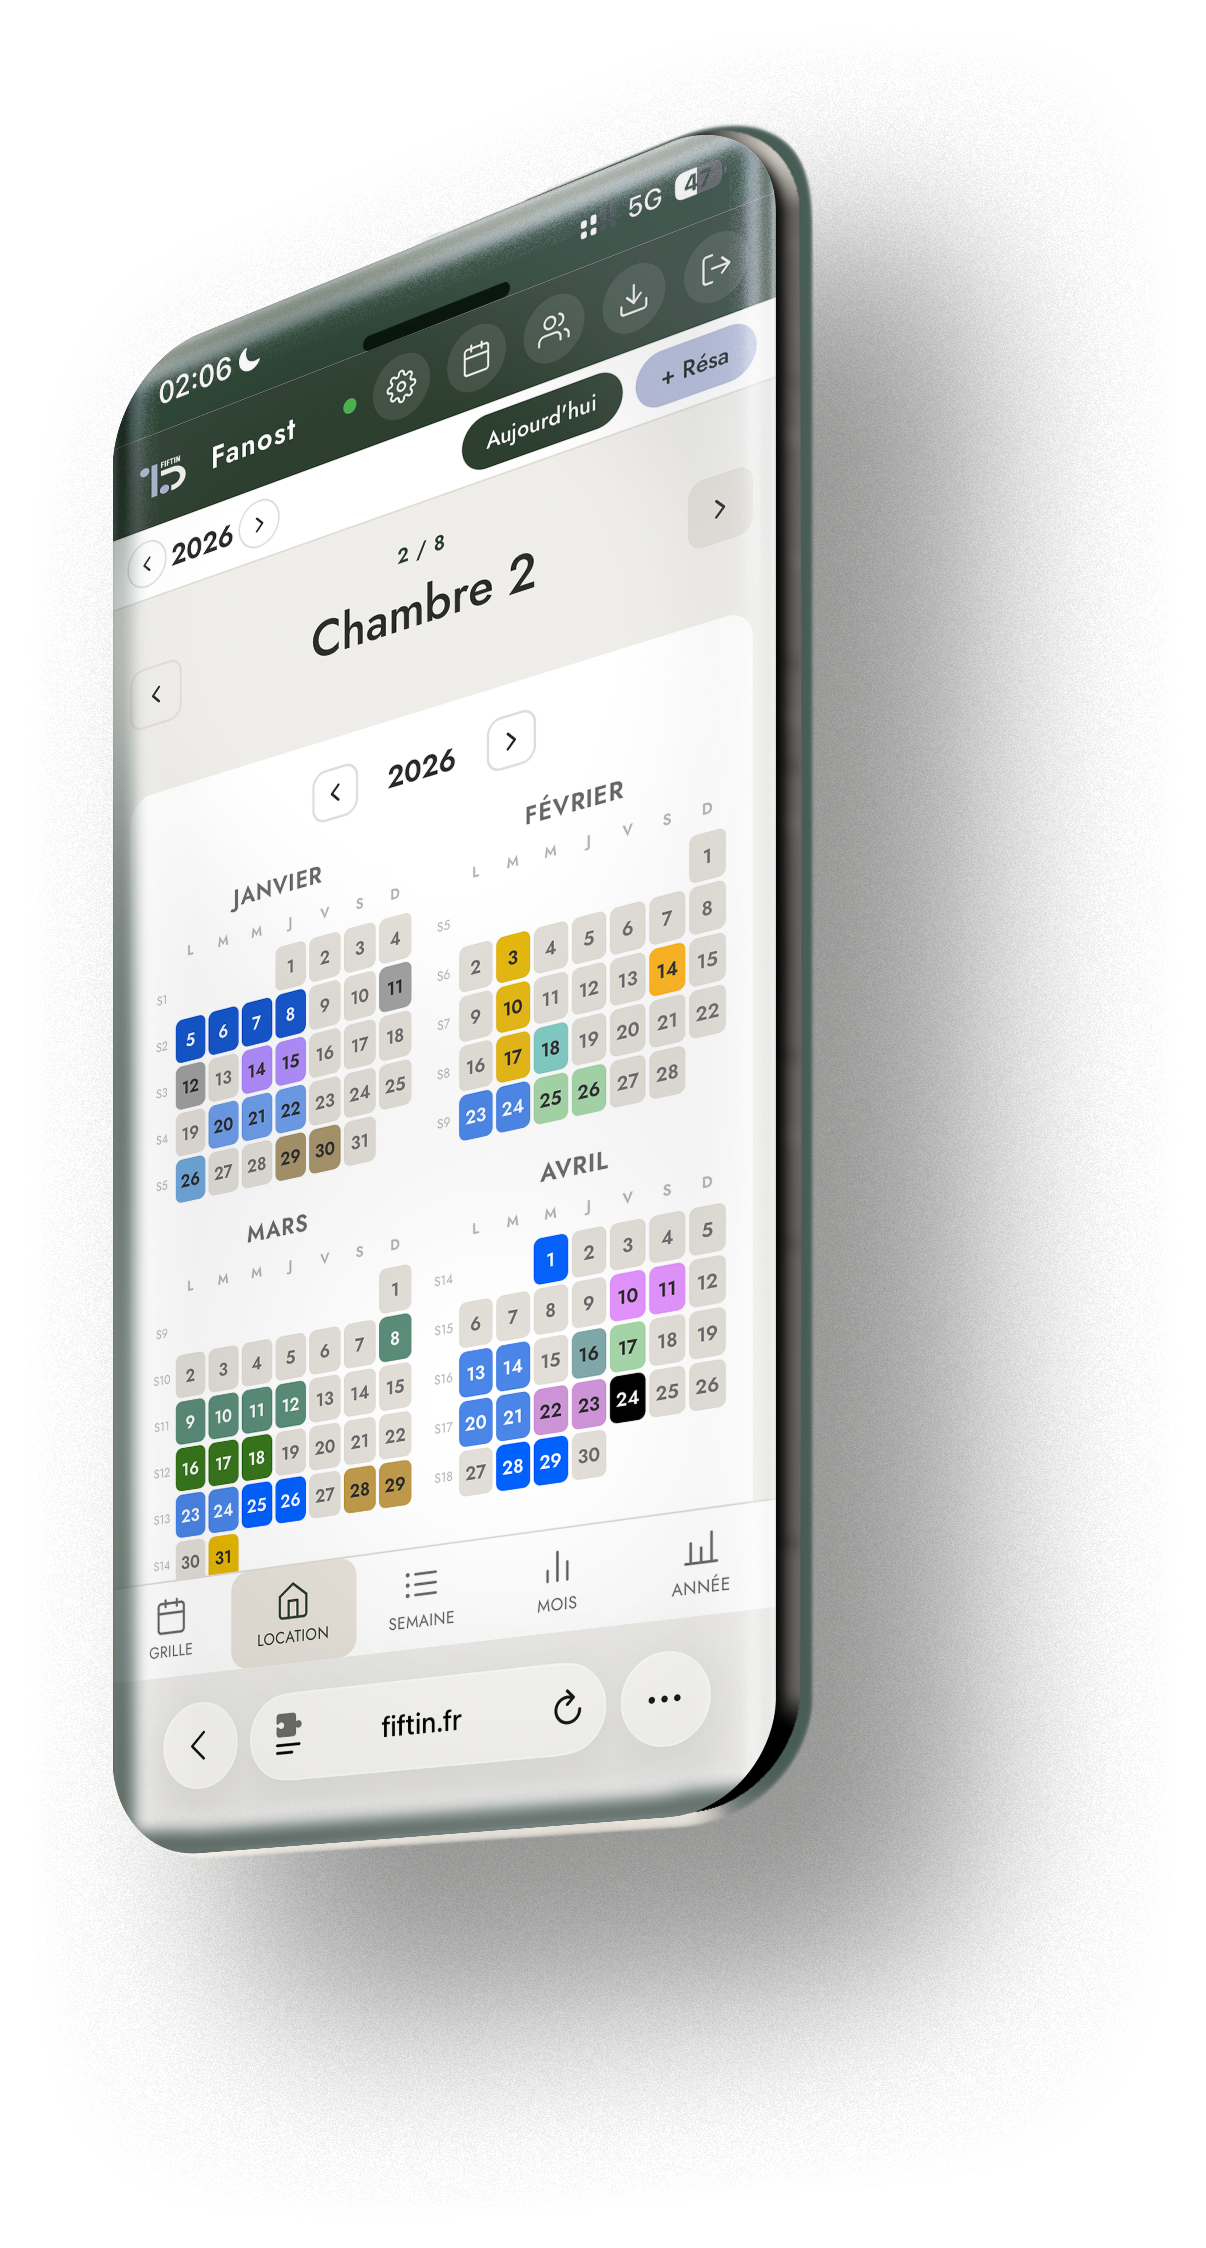
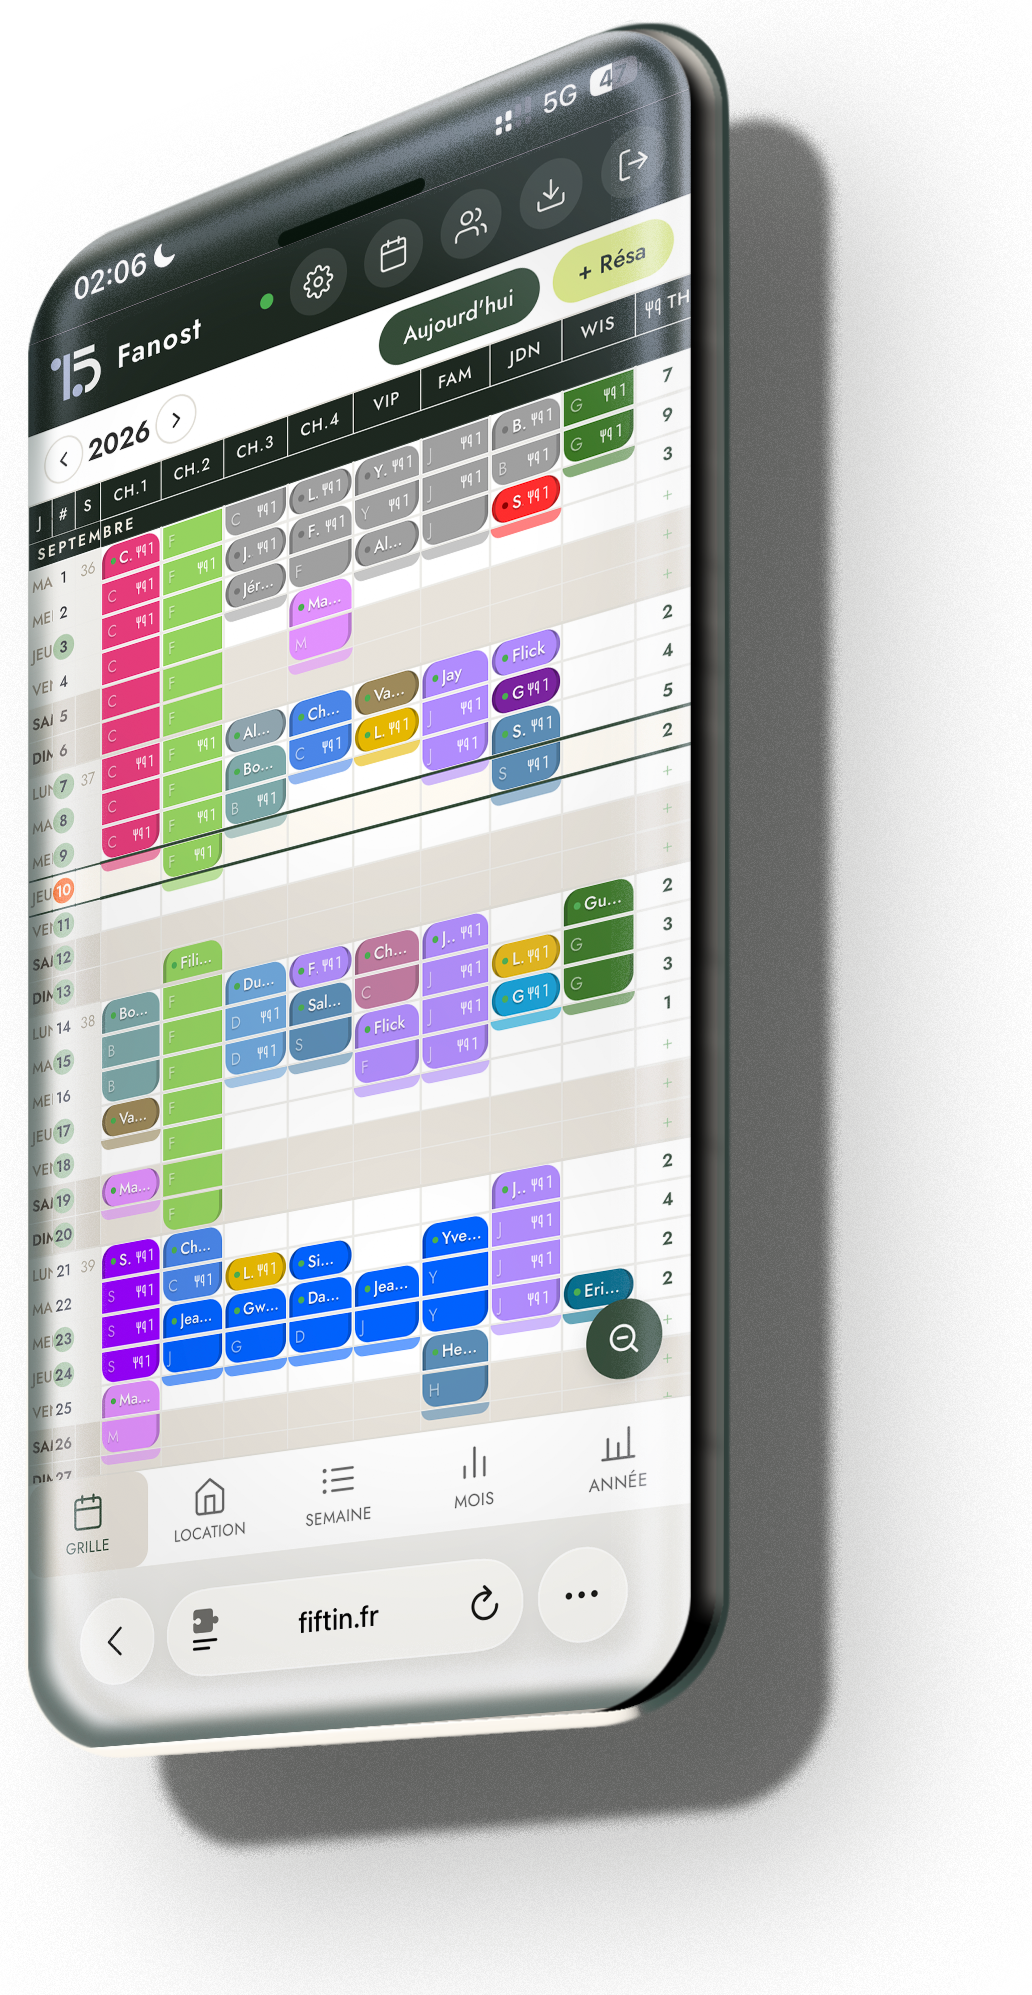
Hero : nouveau visuel téléphone (mockup_SCREEN2), recalibré et réduit
Remplace assets/ecran_hero.png par la nouvelle capture envoyée
(mockup_SCREEN2.png, recadrée aux mêmes bornes de contenu que la
précédente — marge transparente inutile retirée à gauche/en haut,
fichier d'upload brut supprimé une fois recadré).

Nouvelles proportions d'image (1032×1995, ratio différent de l'ancienne) :
recalibré la largeur d'affichage desktop (2000px -> 1500px, "un peu gros"
comme demandé), la marge négative qui détermine où la coupure de bas de
section tombe (-702px -> -290px, toujours ~10% de la hauteur rendue,
même principe qu'avant), et le recentrage optique horizontal
(translateX 11% -> 8%, le poids visuel de cette image penche un peu moins
à gauche que la précédente). Équivalent mobile recalculé au même ratio
(-35.1vw -> -19.3vw).

Vérifié en local : téléphone nettement plus petit sur desktop, coupure
propre à la frontière de section, rien de tronqué sur les côtés, aux deux
gabarits.

diff --git a/index.html b/index.html
@@ -54,18 +54,18 @@
   /* le téléphone bleed hors de la section couverture — la coupure franche
      se fait à la frontière même entre la couverture et la section suivante
      (voir .cover{overflow:hidden; padding-bottom:0}), pas par un fondu. */
-  .hero-phone-wrap{margin:0 auto -702px; max-width:2000px; display:flex; justify-content:center; position:relative;}
+  .hero-phone-wrap{margin:0 auto -290px; max-width:1500px; display:flex; justify-content:center; position:relative;}
   /* Le téléphone n'est pas centré dans son propre cadre (le poids visuel
      penche à gauche — bcp de marge vide à droite, voir le recadrage) : un
      centrage géométrique pur le fait paraître décalé à gauche. Recentré
      optiquement en le décalant vers la droite, dans la marge vide déjà
      là — translateX en %, donc valable à toutes les tailles d'écran. */
-  .hero-phone-wrap .hero-shot{width:2000px; max-width:100%; height:auto; display:block; position:relative; z-index:1; transform:translateX(11%);}
+  .hero-phone-wrap .hero-shot{width:1500px; max-width:100%; height:auto; display:block; position:relative; z-index:1; transform:translateX(8%);}
   /* Sur mobile, la section garde son padding latéral (32px, voir la règle
      "section" plus bas) pour le texte — mais le téléphone, lui, déborde
      jusqu'au bord de l'écran (marges négatives égales au padding) pour
      rester bien grand malgré la largeur réduite de l'écran. */
-  @media (max-width:640px){ .hero-phone-wrap{margin:6px -32px -35.1vw; max-width:none;}
+  @media (max-width:640px){ .hero-phone-wrap{margin:6px -32px -19.3vw; max-width:none;}
     .hero-phone-wrap .hero-shot{width:100%;} }
 
   /* stat block */
